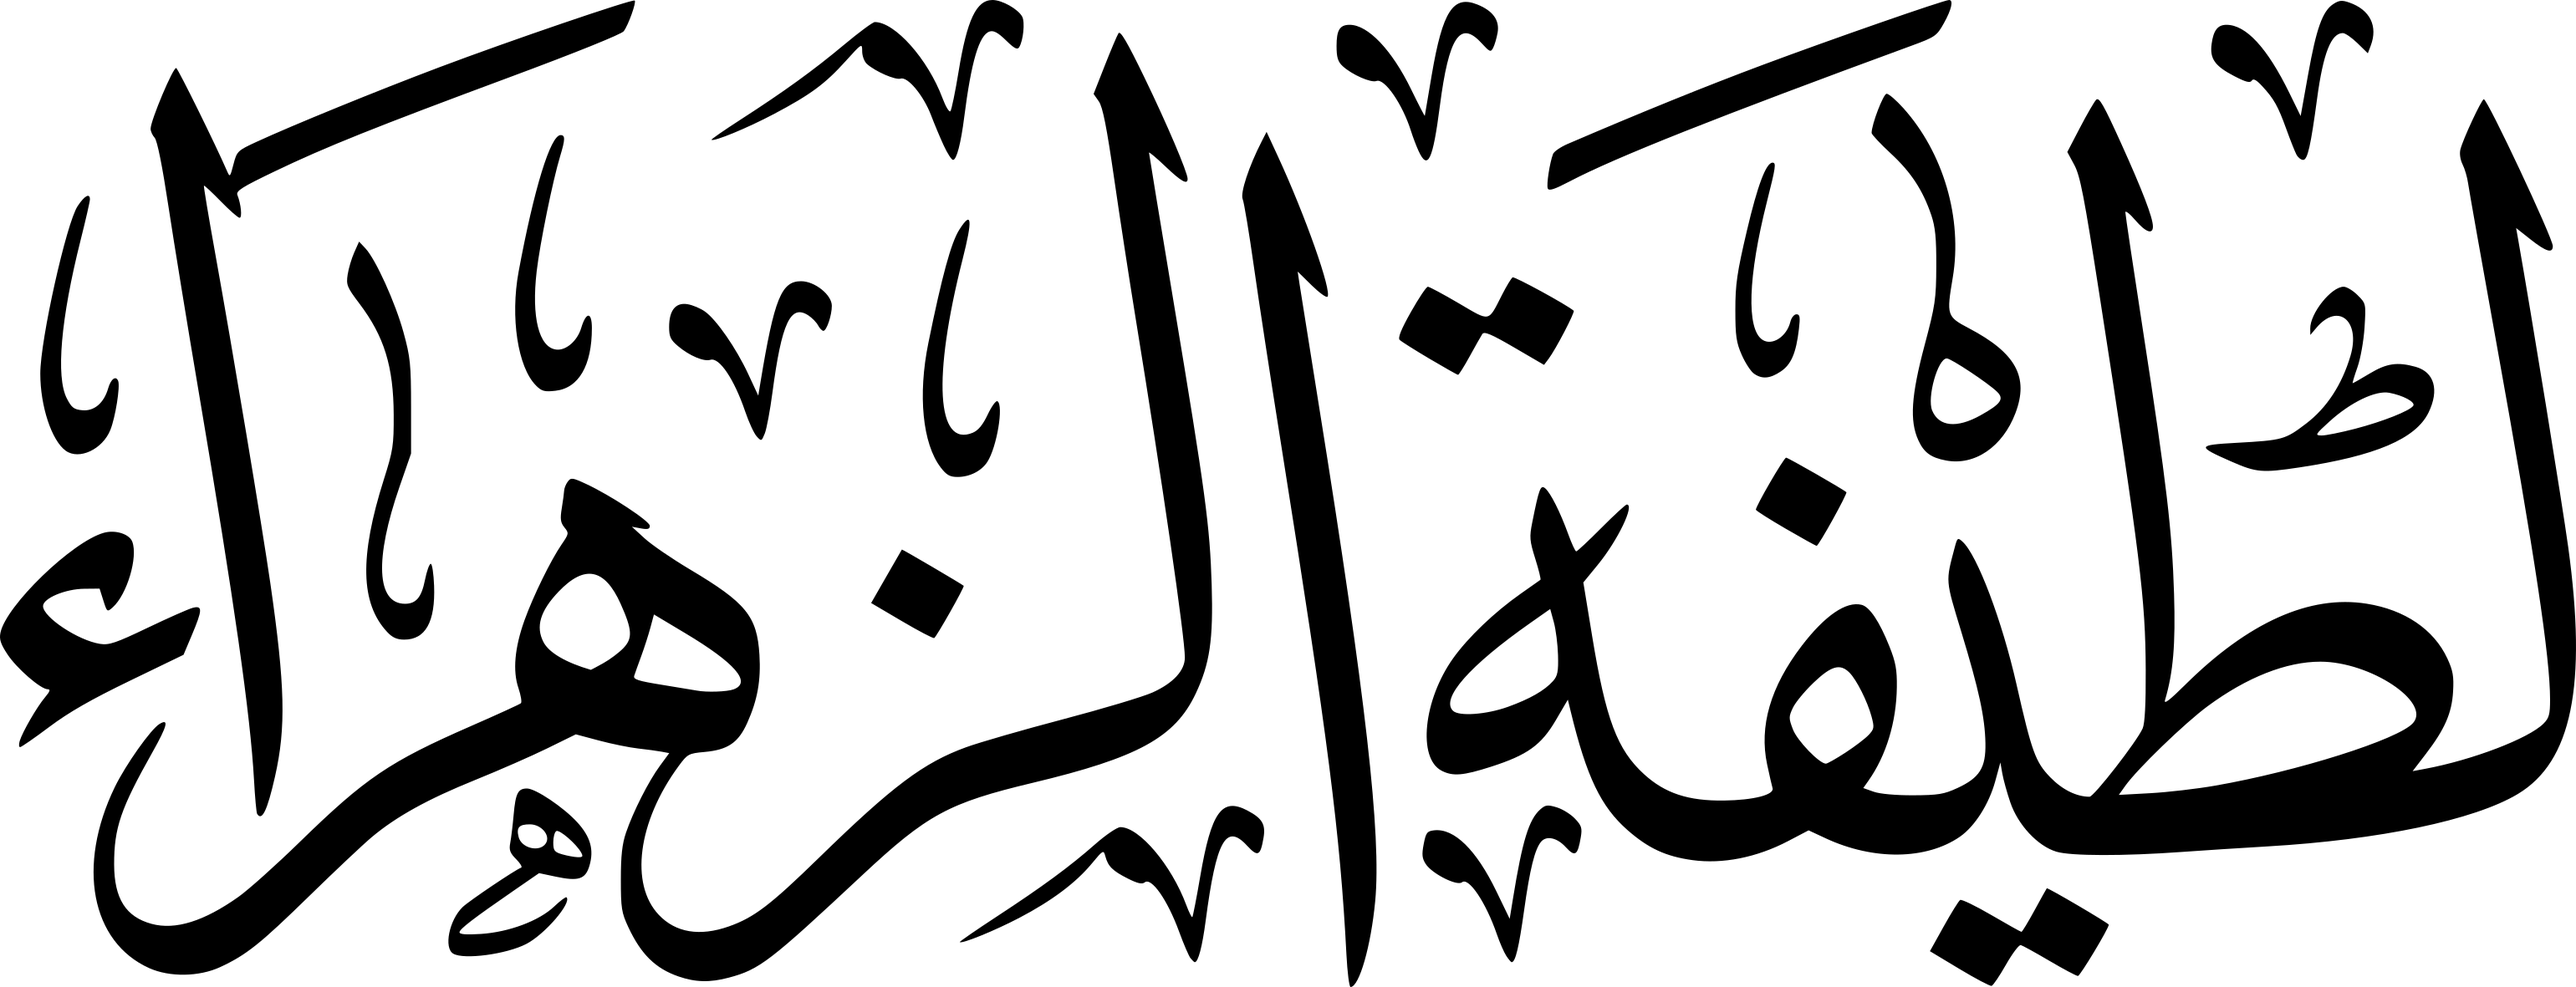
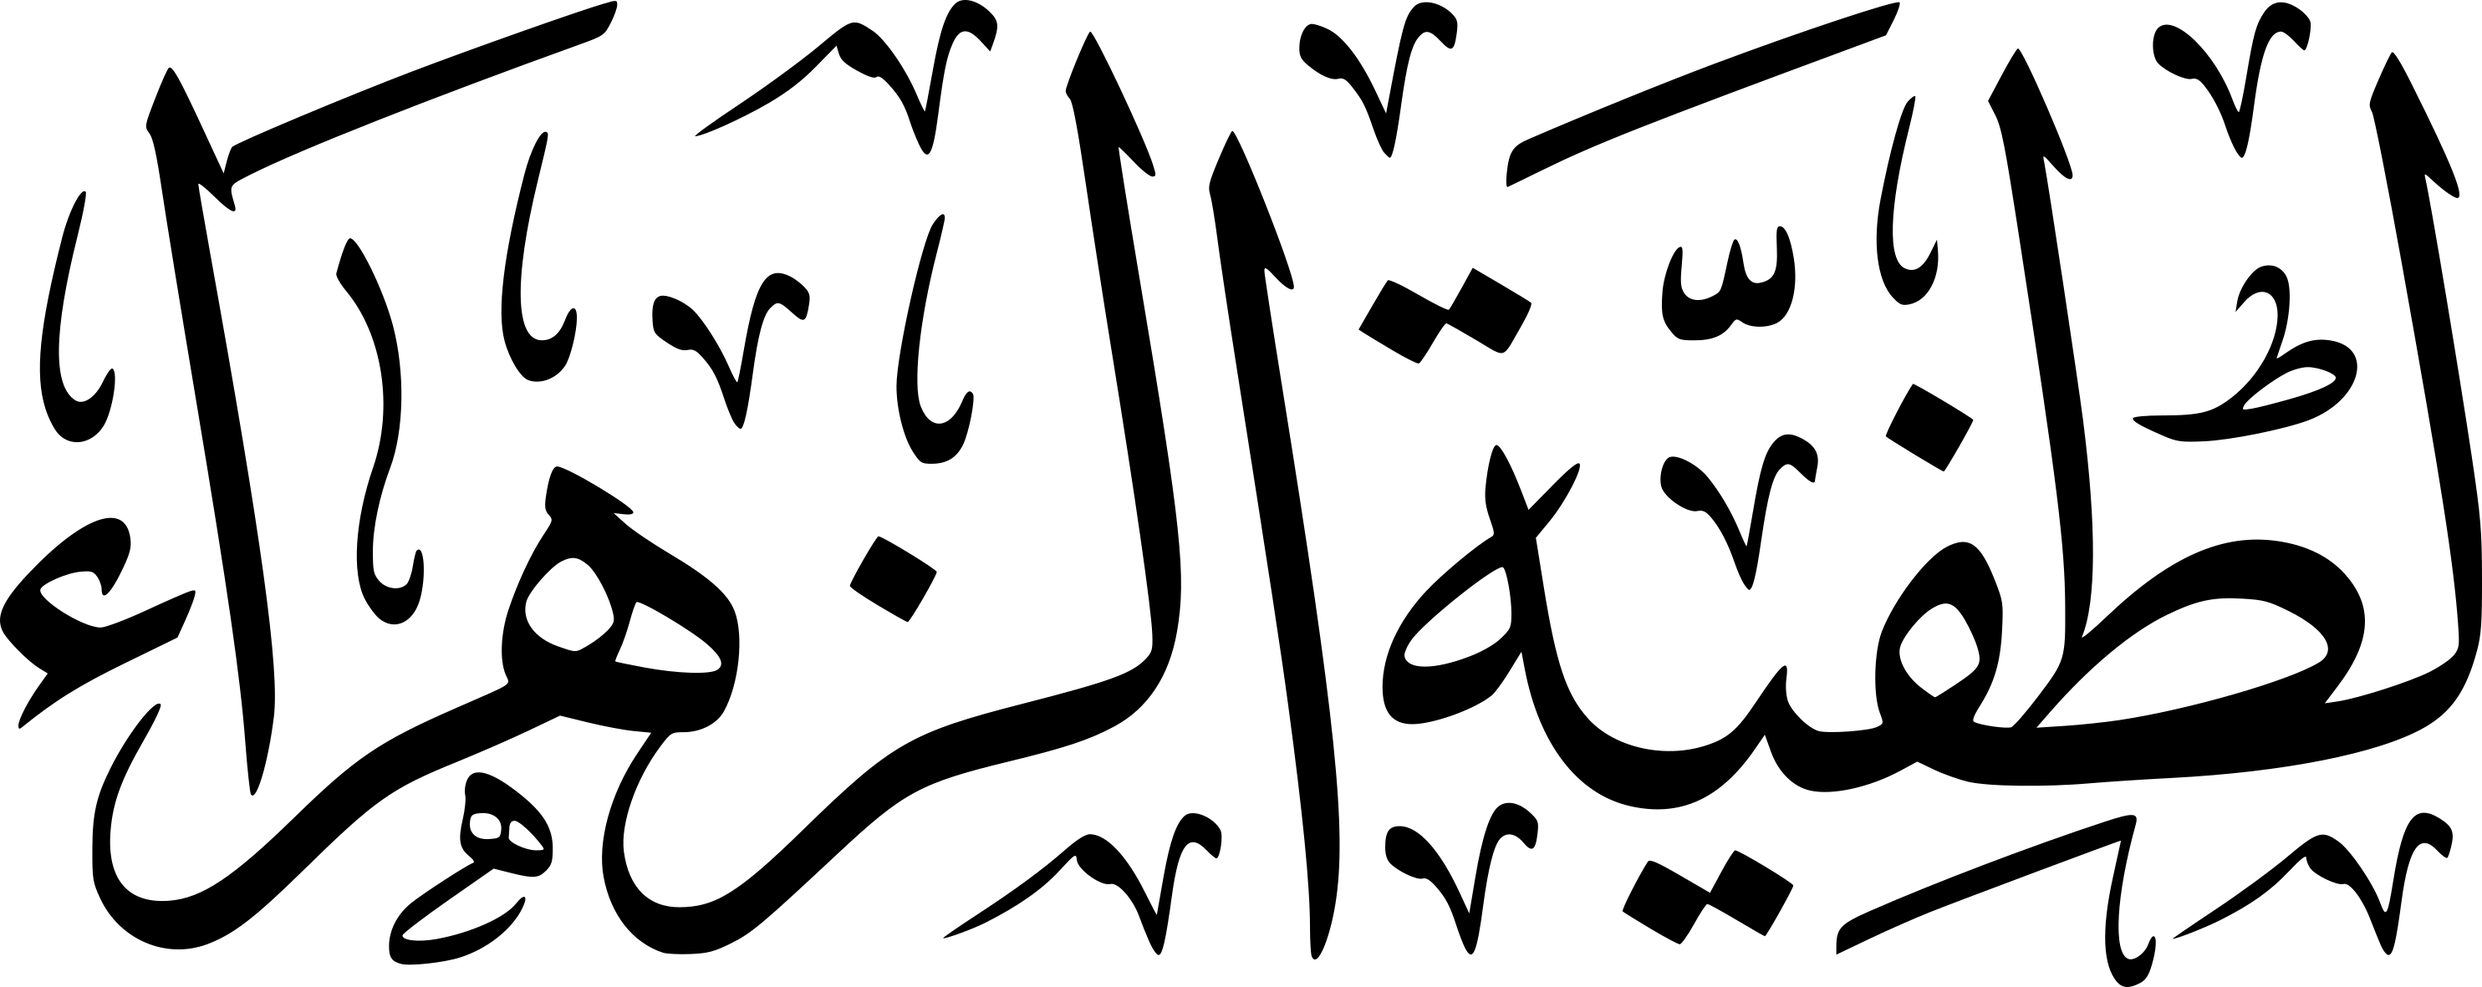
Update gambar #44 لطفية الزهرة, #52 نوريا حكمي هدايتي

diff --git a/manifest.js b/manifest.js
@@ -42,7 +42,7 @@ window.CALLIGRAPHY = [
   {"n":41,"name":"فضيلة النساء الشهيدة","src":"png/41.png","orig":"فضيلة النساء الشهيدة.png","w":5097,"h":1181},
   {"n":42,"name":"فضيلة رحمة عثمان","src":"png/42.png","orig":"فضيلة رحمة عثمان.png","w":3507,"h":1181},
   {"n":43,"name":"فليتلطف الندى صفي","src":"png/43.png","orig":"فليتلطف الندى صفي.png","w":4905,"h":1181},
-  {"n":44,"name":"لطفية الزهرة","src":"png/44.png","orig":"لطفية الزهرة.png","w":3081,"h":1181},
+  {"n":44,"name":"لطفية الزهرة","src":"png/44.png","orig":"لطفية الزهرة.png","w":2969,"h":1181},
   {"n":45,"name":"لطيفة نور العين","src":"png/45.png","orig":"لطيفة نور العين.png","w":4342,"h":1181},
   {"n":46,"name":"ليلى سفيرا ياسميتا","src":"png/46.png","orig":"ليلى سفيرا ياسميتا.png","w":3692,"h":1181},
   {"n":47,"name":"ندى سلسبيلا سويادي","src":"png/47.png","orig":"ندى سلسبيلا سويادي.png","w":3999,"h":1181},
@@ -50,7 +50,7 @@ window.CALLIGRAPHY = [
   {"n":49,"name":"نساء نتاشا","src":"png/49.png","orig":"نساء نتاشا.png","w":2704,"h":1181},
   {"n":50,"name":"نسيبة خالد باسلامة","src":"png/50.png","orig":"نسيبة خالد باسلامة.png","w":4695,"h":1181},
   {"n":51,"name":"نور عزيزة فيتري","src":"png/51.png","orig":"نور عزيزة فيتري.png","w":4689,"h":1181},
-  {"n":52,"name":"نوريا حكمي هدايتي","src":"png/52.png","orig":"نوريا حكمي هدايتي.png","w":2679,"h":1181},
+  {"n":52,"name":"نوريا حكمي هدايتي","src":"png/52.png","orig":"نوريا حكمي هدايتي.png","w":4204,"h":1181},
   {"n":53,"name":"وفاء مجاهدة","src":"png/53.png","orig":"وفاء مجاهدة.png","w":3173,"h":1181},
   {"n":54,"name":"يوريكي آييستشيا","src":"png/54.png","orig":"يوريكي آييستشيا.png","w":3559,"h":1181},
 ];
